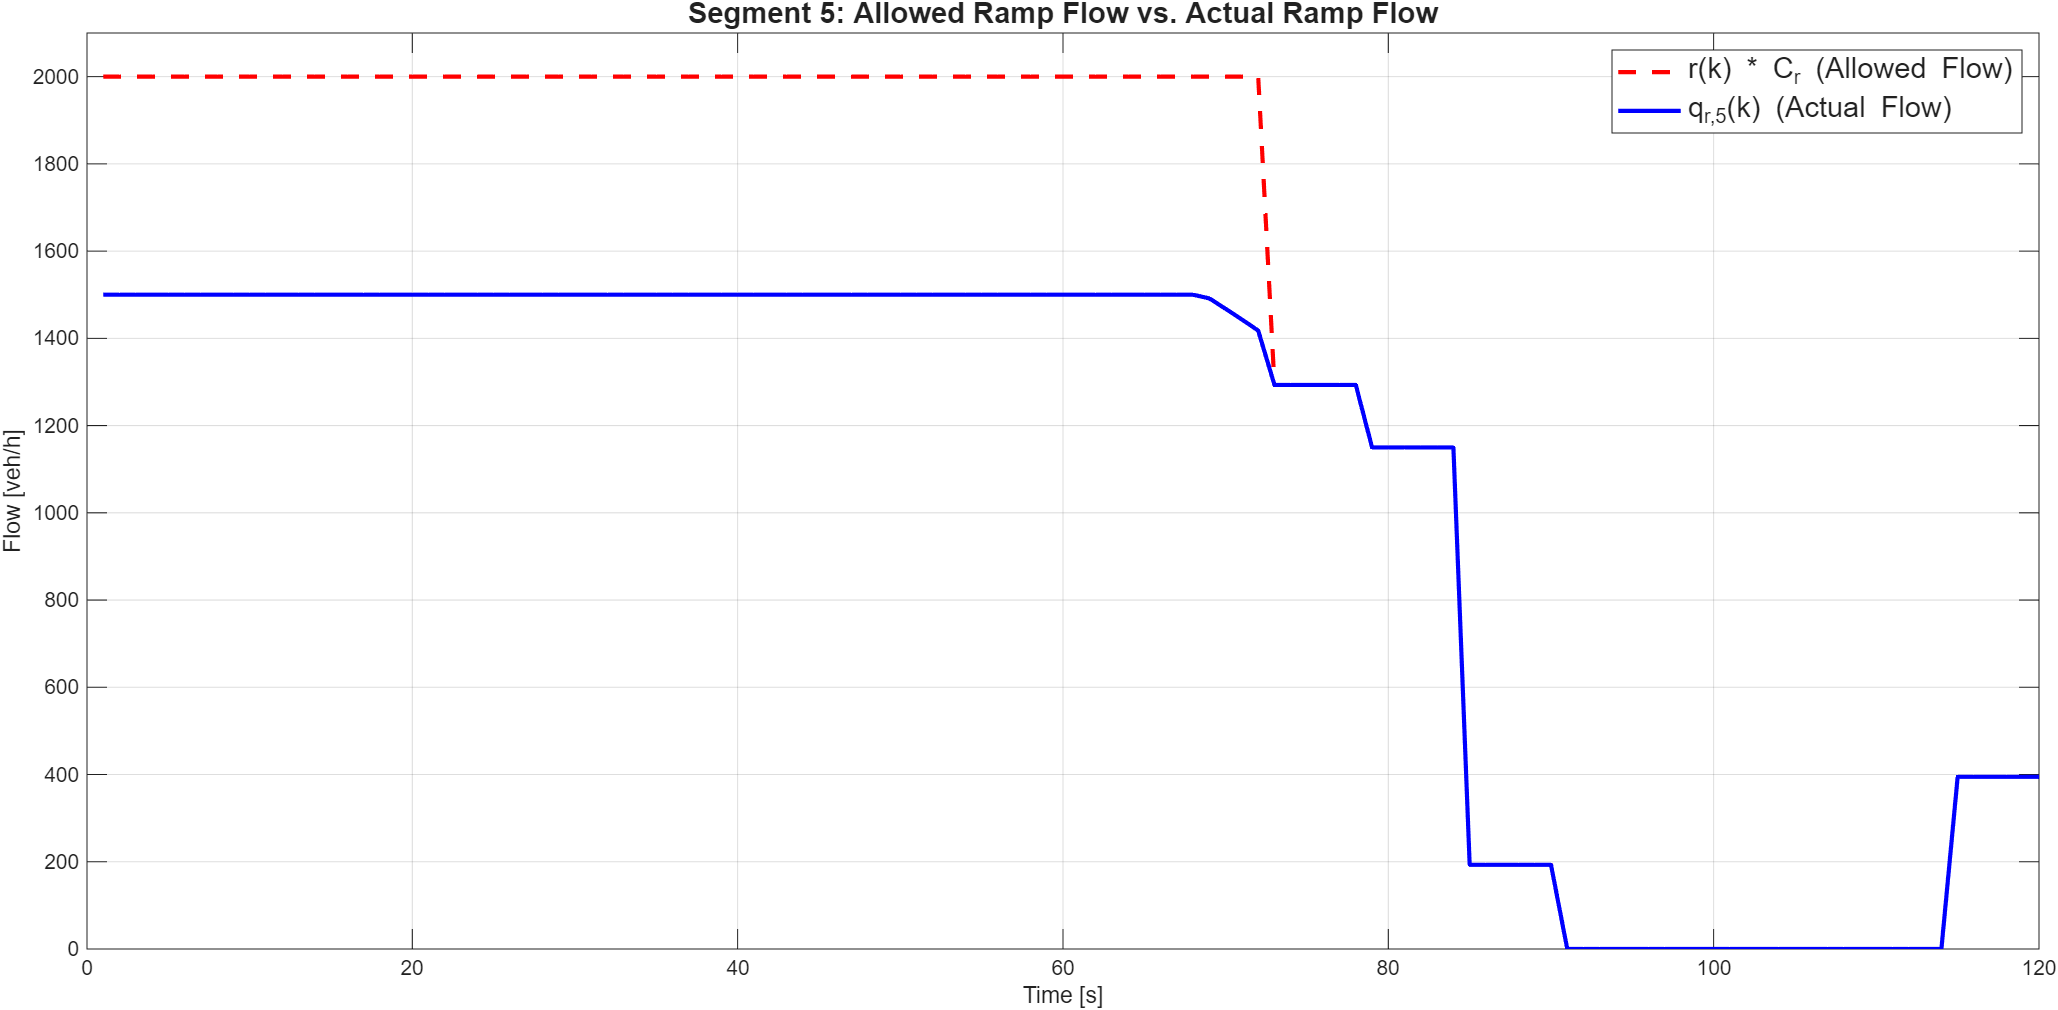
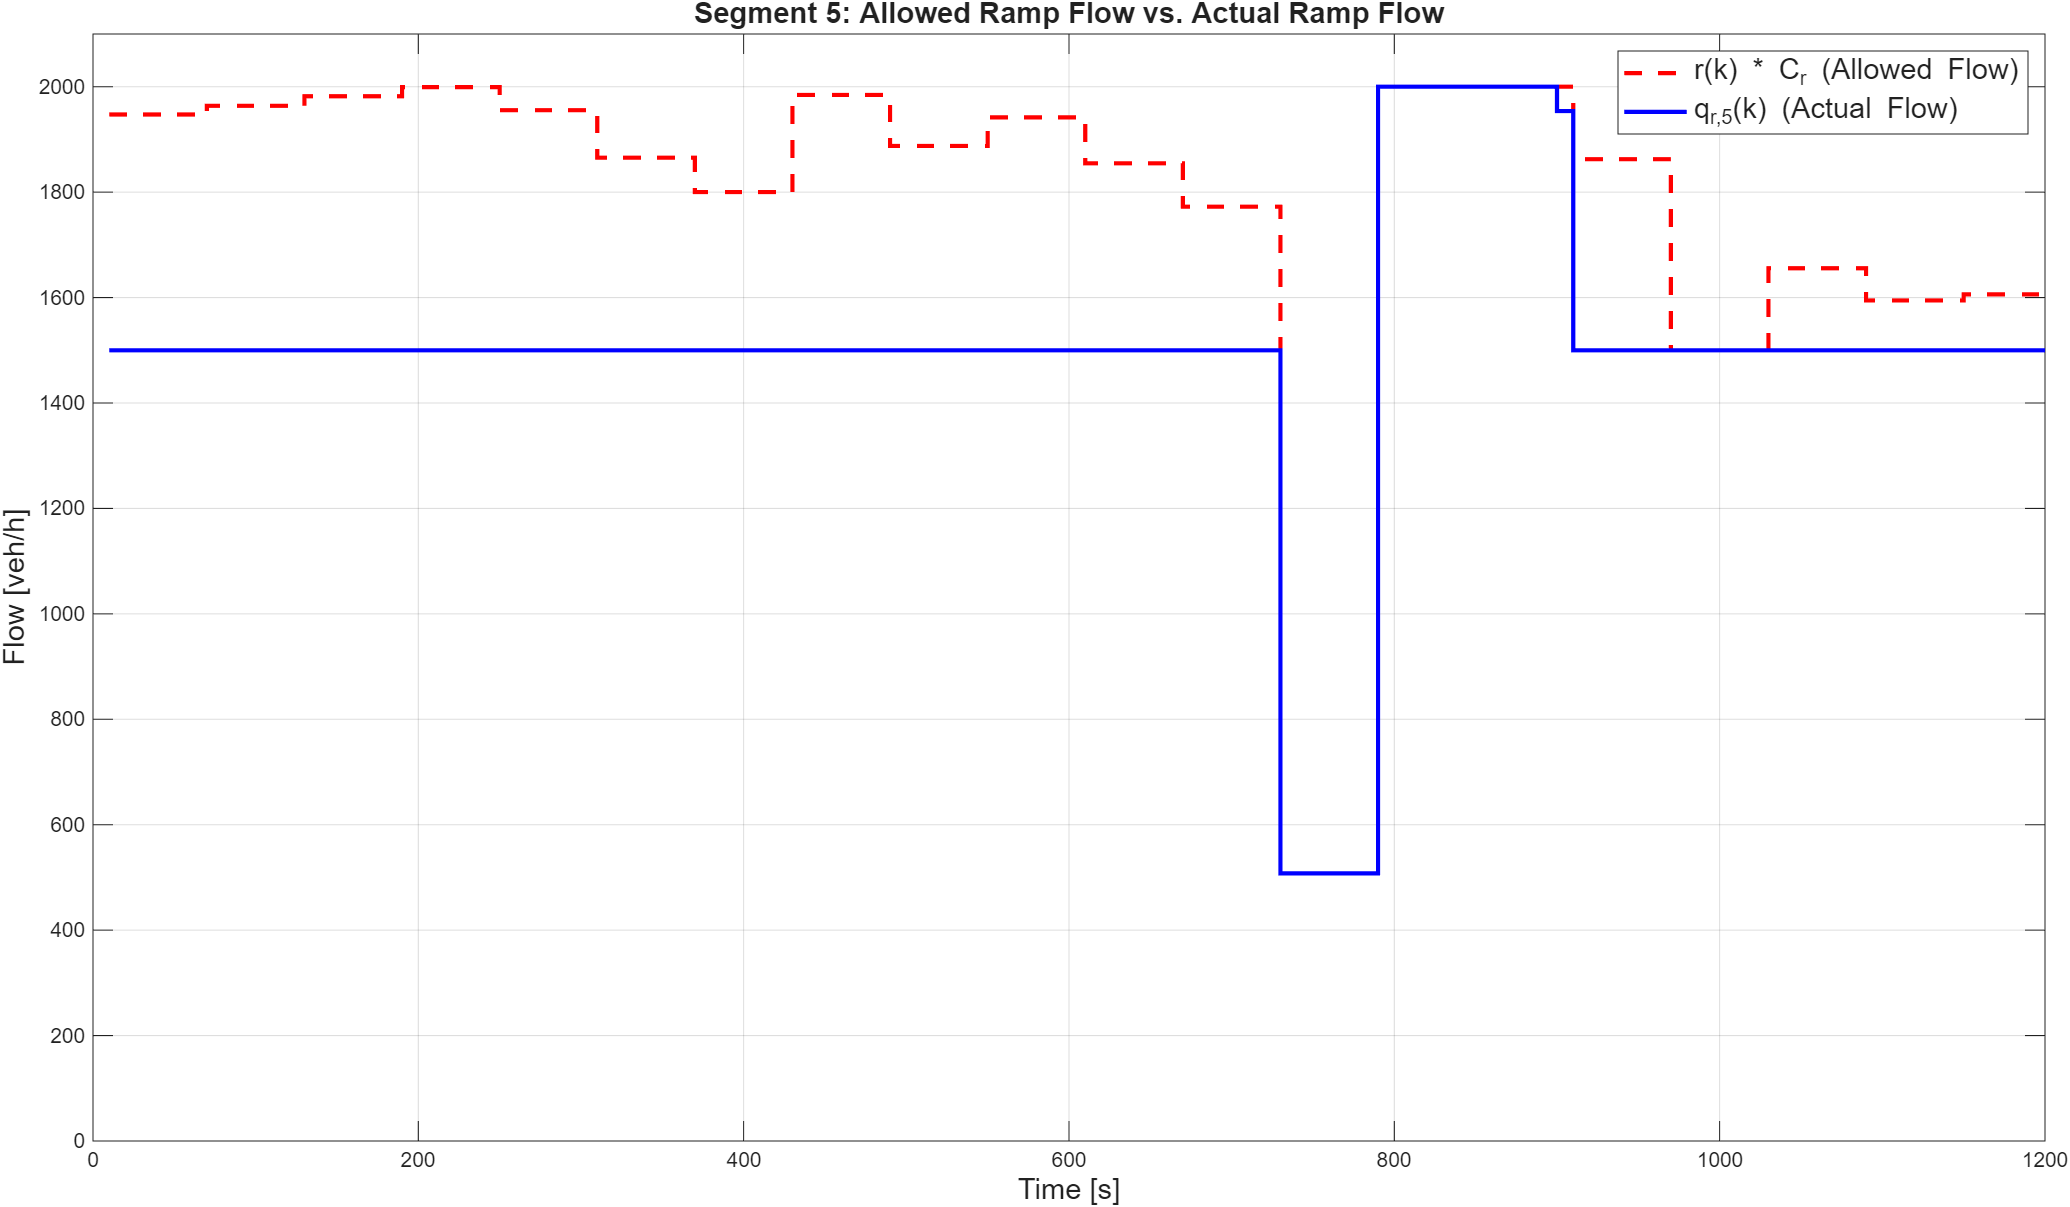
changes

diff --git a/optimization_3_a_b.m b/optimization_3_a_b.m
@@ -57,14 +57,18 @@ u_control0_b = [ones(Nc, 1); 120 * ones(Nc, 1)];
 %% Question 3.a, 3.b 
 
 % Objective function
-totTTS = @(u) CalculateTotalTTS(u, x0, params, 0);
+totTTS = @(u) simulation(u, x0, params, 0).totalTTS;
 
-% Optimization for starting point (a)
+%% Optimization for starting point (a)
 tic; % Start timer
 [u_opt_a, f_opt_a, exitflag_a, output_opt_a] = fmincon(totTTS, u_control0_a, [], [], [], [], lb, ub, [], options);
 time_a = toc; % End timer
+% Print the cost function from the optimization
+fprintf('Exit flag of optimization 3 for starting point(a): %d\n', exitflag_a)
+fprintf('Optimization time for starting point (a): %.4f\n', time_a)
+fprintf('Optimal cost function value for starting point (a): %.4f\n', f_opt_a)
 
-% Optimization for starting point (b)
+%% Optimization for starting point (b)
 tic; % Start timer
 [u_opt_b, f_opt_b, exitflag_b, output_opt_b] = fmincon(totTTS, u_control0_b, [], [], [], [], lb, ub, [], options);
 time_b = toc; % End timer
@@ -72,7 +76,7 @@ time_b = toc; % End timer
 %% Question 3.a, 3.b with q_0(k) 50% higher
 
 % Objective function
-totTTS_1 = @(u) CalculateTotalTTS(u, x0, params, 1);
+totTTS_1 = @(u) simulation(u, x0, params, 1).totalTTS;
 
 % Optimization for starting point (a)
 tic; % Start timer
@@ -187,10 +191,10 @@ stairs(output_time_s, VSL_b1, 'r--', 'LineWidth', 1.5, 'DisplayName', 'Start 2')
 title('Variable Speed Limit (Applied) - Increased Inflow'); ylabel('[km/h]'); xlabel('Time [s]'); ylim([50 130]); xlim([0 1200]); grid on; legend('show');
 
 %% Question 5 (part 1)
-vsl_term = (1 + params.alpha) .* VSL_b;
+vsl_term = (1 + params.alpha) .* VSL_a;
 
-rho_k_seg2 = Rho_b(2, 2:end); 
-rho_k_seg3 = Rho_b(3, 2:end); 
+rho_k_seg2 = Rho_a(2, 2:end); 
+rho_k_seg3 = Rho_a(3, 2:end); 
 
 exp_term_seg2 = params.v_f .* exp(-(1/params.a) .* (rho_k_seg2 ./ params.rho_c).^params.a);
 exp_term_seg3 = params.v_f .* exp(-(1/params.a) .* (rho_k_seg3 ./ params.rho_c).^params.a);
@@ -202,28 +206,32 @@ V_i_k_seg3 = min(vsl_term', exp_term_seg3);
 close all
 figure('Name', 'Task 5: VSL vs. Desired Speed');
 subplot(2,1,1);
-plot(vsl_term, 'r--', 'LineWidth', 1.5, 'DisplayName', '(1+\alpha)V_{SL}(k)');
+stairs(output_time_s, vsl_term, 'r--', 'LineWidth', 2, 'DisplayName', '(1+\alpha)V_{SL}(k)');
 hold on;
-plot(V_i_k_seg2, 'b-', 'LineWidth', 1.5, 'DisplayName', 'V_i(k) (Desired Speed)');
-title('Segment 2: Desired Speed vs. VSL Term');
-xlabel('Time [s]'); ylabel('[km/h]');
-legend('show'); grid on;
+stairs(output_time_s, V_i_k_seg2, 'b-', 'LineWidth', 2, 'DisplayName', 'V_i(k) (Desired Speed)');
+title('Segment 2: Desired Speed vs. VSL Term', 'FontSize', 14);
+xlabel('Time [s]', 'FontSize', 14); 
+ylabel('[km/h]', 'FontSize', 14);
+legend('show', 'FontSize', 14); 
+grid on;
 hold off;
 
 subplot(2,1,2);
-plot(vsl_term, 'r--', 'LineWidth', 1.5, 'DisplayName', '(1+\alpha)V_{SL}(k)');
+stairs(output_time_s, vsl_term, 'r--', 'LineWidth', 2, 'DisplayName', '(1+\alpha)V_{SL}(k)');
 hold on;
-plot(V_i_k_seg3, 'b-', 'LineWidth', 1.5, 'DisplayName', 'V_i(k) (Desired Speed)');
-title('Segment 3: Desired Speed vs. VSL Term');
-xlabel('Time [s]'); ylabel('[km/h]');
-legend('show'); grid on;
+stairs(output_time_s, V_i_k_seg3, 'b-', 'LineWidth', 2, 'DisplayName', 'V_i(k) (Desired Speed)');
+title('Segment 3: Desired Speed vs. VSL Term', 'FontSize', 14);
+xlabel('Time [s]', 'FontSize', 14); 
+ylabel('[km/h]', 'FontSize', 14);
+legend('show', 'FontSize', 14); 
+grid on;
 hold off;
 
 %% Question 5 (part 2)
 
-r_k_vec = r_b; 
-wr_k_vec = Wr_b(1, 1:120)';
-rho5_k_vec = Rho_b(5, 1:120)';
+r_k_vec = r_a; 
+wr_k_vec = Wr_a(1, 1:120)';
+rho5_k_vec = Rho_a(5, 1:120)';
 
 q_r5_term1_allowed = r_k_vec .* params.C_r;
 q_r5_term2_demand = params.D_r + wr_k_vec ./ params.T;
@@ -234,12 +242,12 @@ q_r5_k = min(min(q_r5_term1_allowed, q_r5_term2_demand), q_r5_term3_capacity);
 % Plotting r(k)*C_r vs q_r,5(k)
 close all
 figure('Name', 'Task 5: Ramp Metering Analysis');
-plot(q_r5_term1_allowed, 'r--', 'LineWidth', 2, 'DisplayName', 'r(k) * C_r (Allowed Flow)');
+stairs(output_time_s, q_r5_term1_allowed, 'r--', 'LineWidth', 2, 'DisplayName', 'r(k) * C_r (Allowed Flow)');
 hold on;
-plot(q_r5_k, 'b-', 'LineWidth', 2, 'DisplayName', 'q_{r,5}(k) (Actual Flow)');
+stairs(output_time_s, q_r5_k, 'b-', 'LineWidth', 2, 'DisplayName', 'q_{r,5}(k) (Actual Flow)');
 ylim([0 2100]);
 title('Segment 5: Allowed Ramp Flow vs. Actual Ramp Flow', 'FontSize', 14);
-xlabel('Time [s]'); 
-ylabel('Flow [veh/h]');
+xlabel('Time [s]', 'FontSize', 14); 
+ylabel('Flow [veh/h]', 'FontSize', 14);
 legend('show', 'FontSize', 14); grid on;
 hold off;

diff --git a/simulation.m b/simulation.m
@@ -1,7 +1,7 @@
-function [stateHist, outputHist] = simulation(u, x_0, params, simType)
+function simResults = simulation(u, x_0, params, simType)
 
 % Control signal
-u = [u(1:20)'; 
+u = [u(1:20)' 
     u(21:end)'];
 u_control = repelem(u, 1, 6);
 sim_steps = 120;
@@ -11,22 +11,27 @@ state = zeros(13, sim_steps + 1);
 state(:, 1) = x_0;  
 output = zeros(sim_steps + 1, 1);
 output(1) = params.T * x_0(13) + params.T * params.L * params.lambda * sum(x_0(7:12));
+    
+    % Simulation
+    for k = 1:sim_steps
+        state_current = state(:, k);
+        u_control_current = u_control(:, k);
+    
+        v_next = update_velocity(state_current, u_control_current, params);
+        rho_next = update_density(state_current, u_control_current, params, k, simType);
+        w_r_next = update_wr(state_current, u_control_current, params);
+    
+        state(:, k+1) = [v_next ; rho_next ; w_r_next];
+        output(k) = params.T * state(13,k) + params.T * params.L * params.lambda * sum(state(7:12, k));
+    
+        if k == sim_steps
+        output(k+1) = params.T * state(13,k+1) + params.T * params.L * params.lambda * sum(state(7:12, k+1));
+        end 
 
+    end 
 
+simResults.stateHist = state;
+simResults.outputHist = output;
+simResults.totalTTS = sum(output);
 
-% Simulation
-for k = 1:sim_steps
-    state_current = state(:, k);
-    u_control_current = u_control(:, k);
-
-    v_next = update_velocity(state_current, u_control_current, params);
-    rho_next = update_density(state_current, u_control_current, params, k, simType);
-    w_r_next = update_wr(state_current, u_control_current, params);
-
-    state(:, k+1) = [v_next ; rho_next ; w_r_next];
-    output(k+1) = params.T * state(13,k) + params.T * params.L * params.lambda * sum(state(7:12, k));
-end 
-
-stateHist = state;
-outputHist = output;
 end

diff --git a/optimization_Q5.m b/optimization_Q5.m
@@ -42,8 +42,8 @@ x0 = [v_0 ; rho_0 ; w_r_0];
 u_control0_a = [zeros(Nc, 1); 60 * ones(Nc, 1)];
 
 % Weights for cost terms
-W_vsl = 8.3e-3;
-W_ramp = 4.7e-6;
+W_vsl = 6.3e-3;
+W_ramp = 6.3e-6;
 
 % Objective function
 costQ5 = @(u) CostFunctionQ5(u, x0, params, 0, W_vsl, W_ramp).cost;
@@ -67,7 +67,7 @@ fprintf('Optimal combined cost: %.4f\n', f_opt_5);
 
 %% Post-processing
 % Obtaining optimal history
-[stateHist_opt5, outputHist_opt5] = simulation(u_opt_5, x0, params, 0);
+[stateHist_opt5, outputHist_opt5, totalTTS_opt5] = simulation(u_opt_5, x0, params, 0);
 costQ5_opt = CostFunctionQ5(u_opt_5, x0, params, 0, W_vsl, W_ramp);
 fprintf('Cost TTS: %e\n', costQ5_opt.J_TTS);
 fprintf('Cost vsl: %e\n', costQ5_opt.J_vsl);
@@ -76,5 +76,28 @@ fprintf('Cost ramp: %e\n', costQ5_opt.J_ramp);
 % Plotting optimal ramp metering rates and VSL
 [V_opt_5, Rho_opt_5, Wr_opt_5, r_opt_5, VSL_opt_5] = extract_data(stateHist_opt5, u_opt_5);
 
+figure('Name', 'Task 5: Control Input Comparison');
+subplot(2,1,1);
+stairs(r_a, 'b:', 'LineWidth', 2, 'DisplayName', 'Task 3a (TTS-Only)');
+hold on;
+stairs(r_opt_5, 'b-', 'LineWidth', 3, 'DisplayName', 'Task 5 (Multi-Obj)');
+title('Ramp Metering Rate Comparison', 'FontSize', 14);
+ylabel('Rate', 'FontSize', 14); 
+ylim([-0.1 1.1]);
+legend('show', 'FontSize', 14); 
+grid on;
+hold off;
+
+subplot(2,1,2);
+stairs(VSL_a, 'r:', 'LineWidth', 2, 'DisplayName', 'Task 3a (TTS-Only)');
+hold on;
+stairs(VSL_opt_5, 'r-', 'LineWidth', 3, 'DisplayName', 'Task 5 (Multi-Obj)');
+title('Variable Speed Limit Comparison', 'FontSize', 14);
+ylabel('[km/h]'); 
+xlabel('Time [s]', 'FontSize', 14); 
+ylim([50 130]);
+legend('show', 'FontSize', 14); 
+grid on;
+hold off;
 
 
